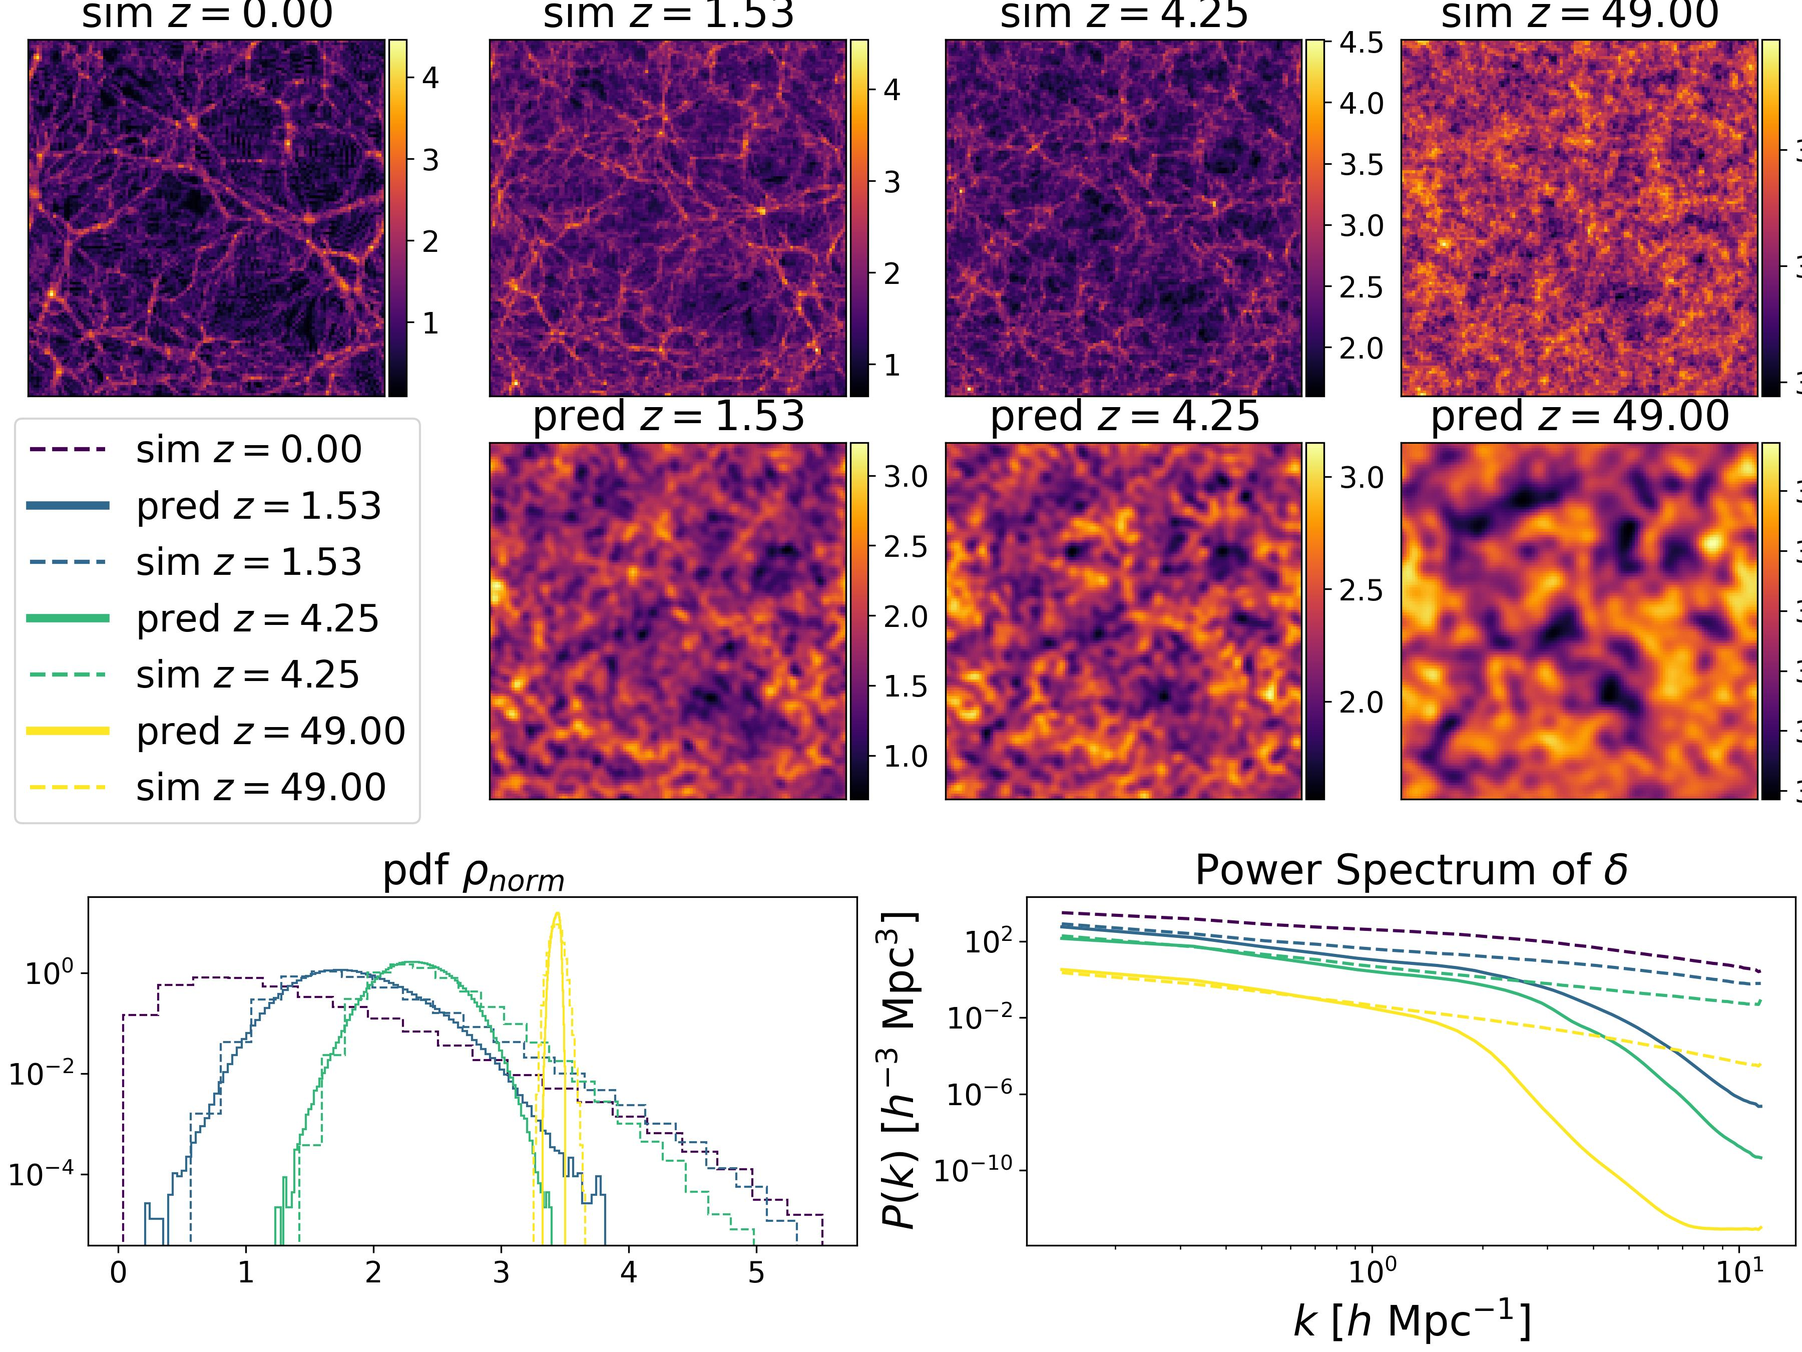
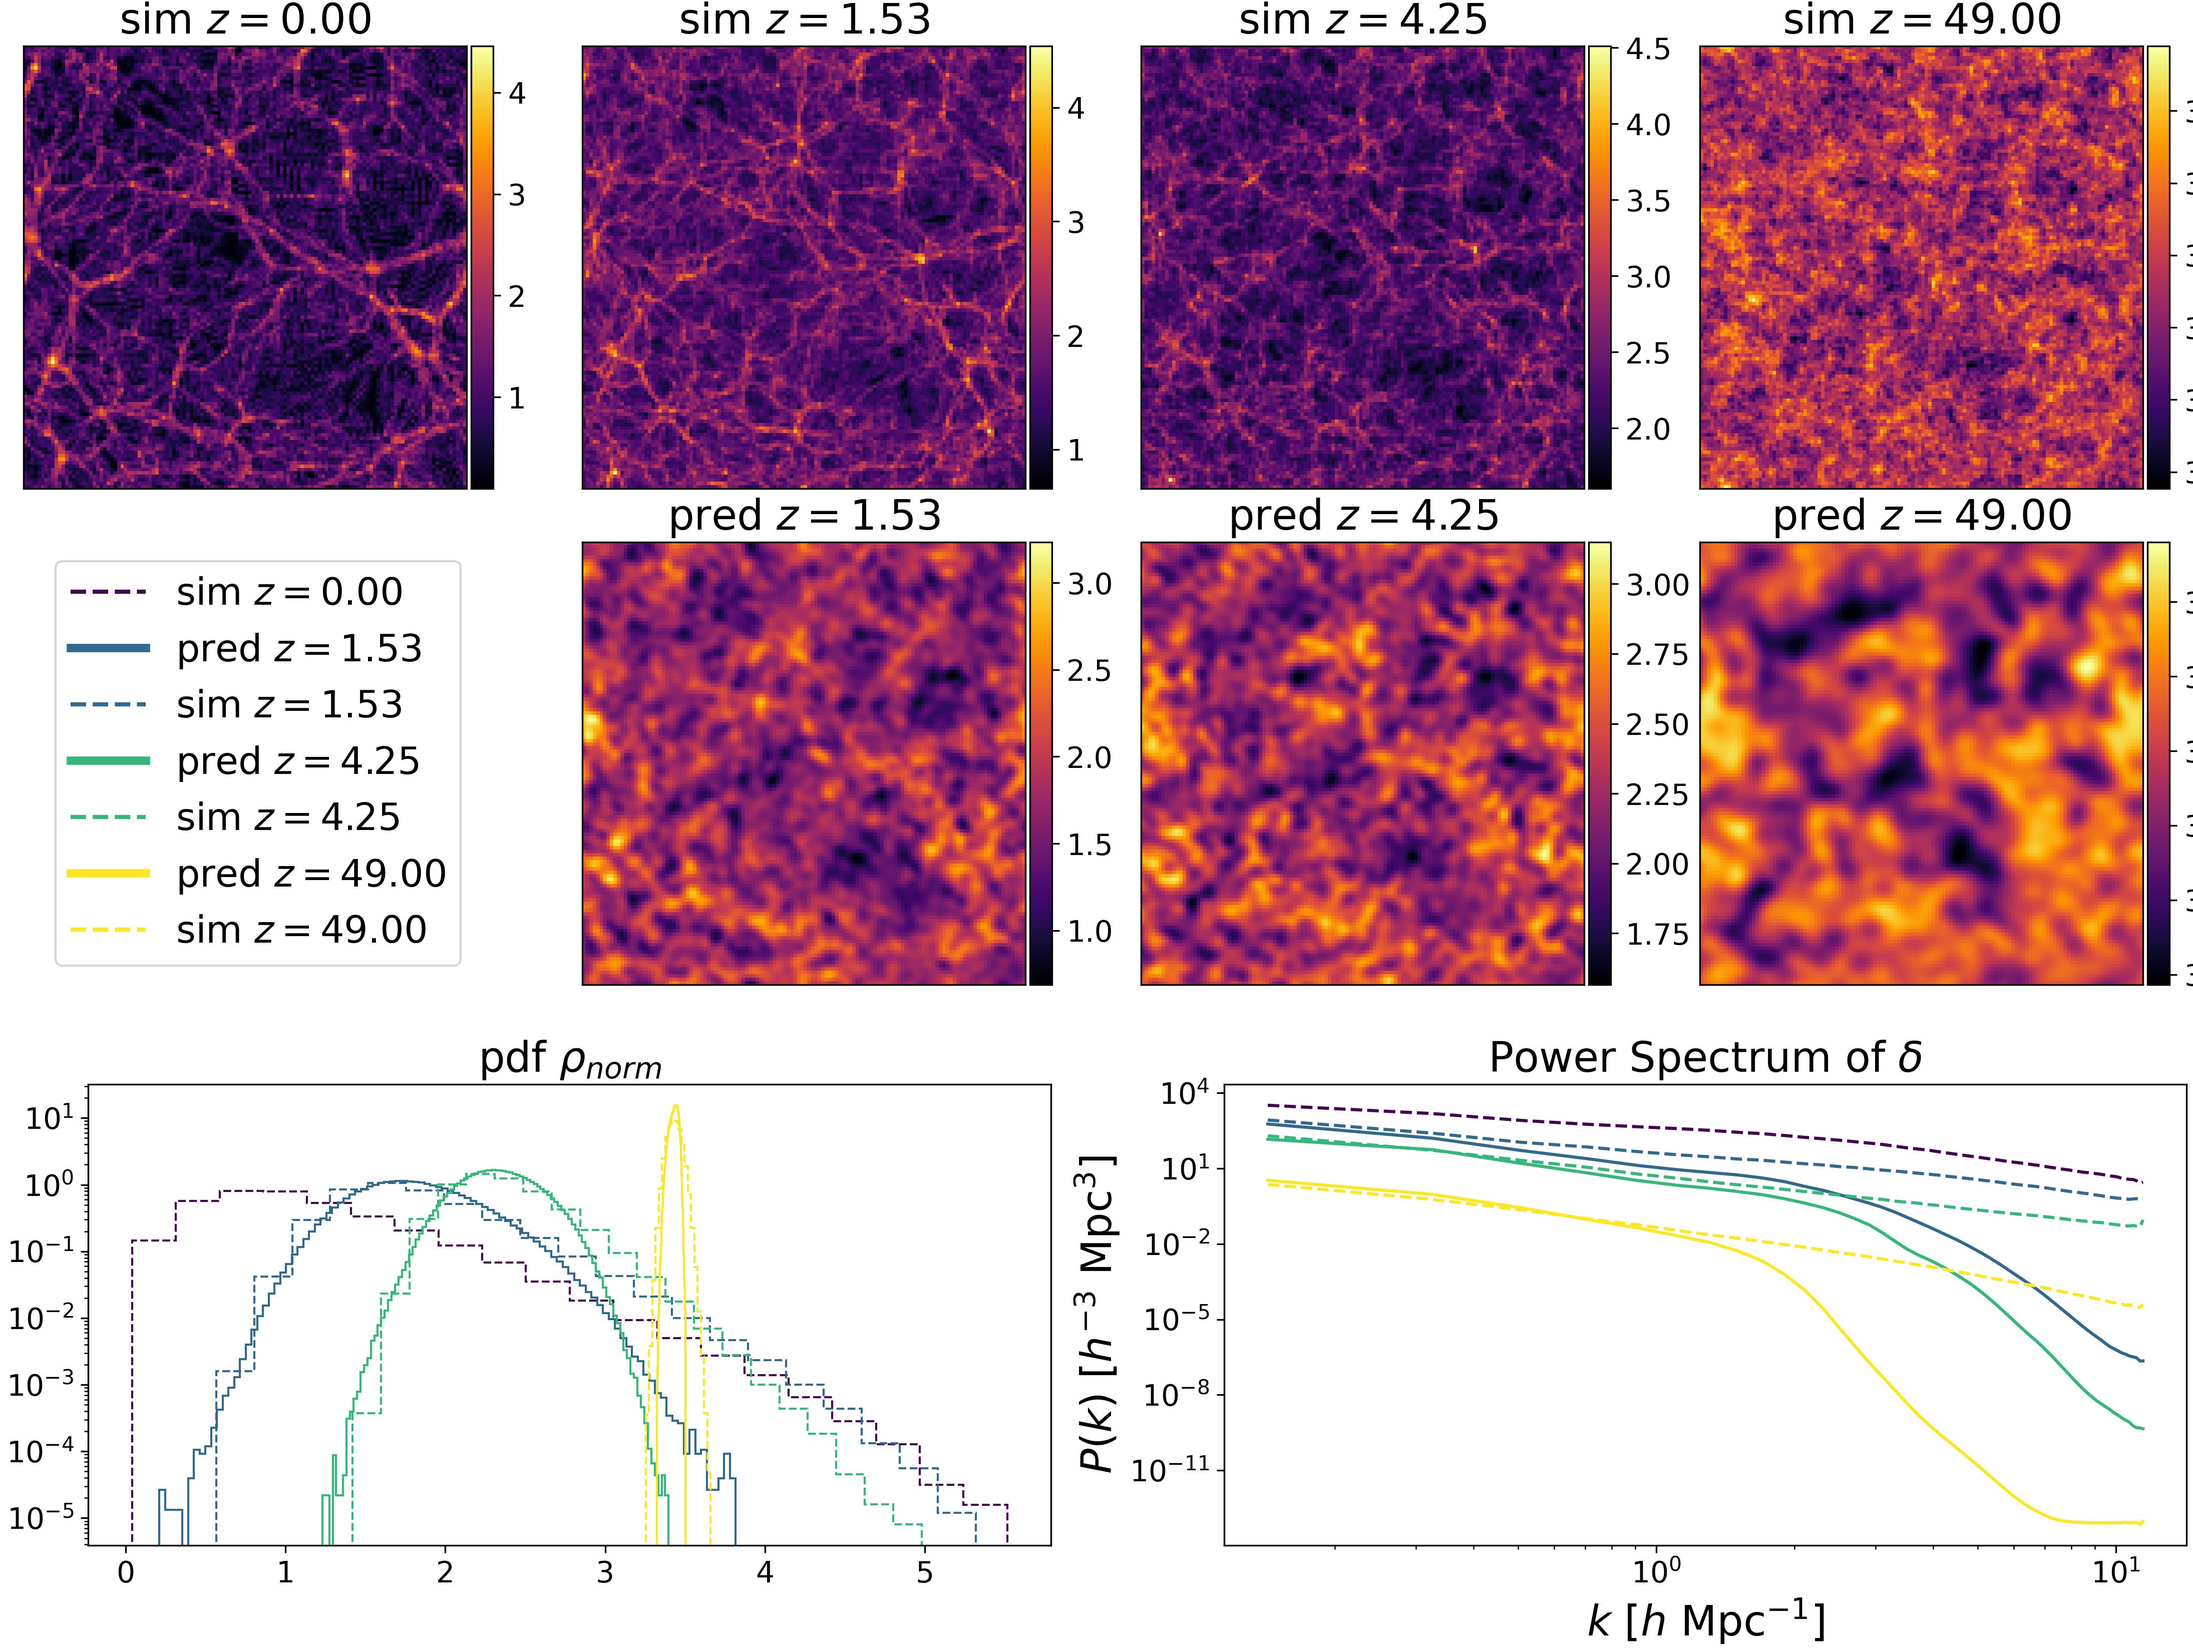
seq plot layouts

diff --git a/src/plot_sequential.py b/src/plot_sequential.py
@@ -38,7 +38,7 @@ def plot(
         'grid.linestyle': '--',            # Grid line style
         'grid.color': 'gray',              # Grid line color
         'text.usetex': False,              # Use TeX for text (set True if TeX is available)
-        'figure.figsize': [8, 6],          # Figure size
+        'figure.figsize': [9, 7],          # Figure size
         # 'axes.prop_cycle': plt.cycler('color', ['#0077BB', '#EE7733', '#33BBEE', '#EE3377'])
     })
     
@@ -57,7 +57,7 @@ def plot(
     
     fig = plt.figure(
         layout='constrained', 
-        figsize=(2+2.5*frames, 9 ),
+        figsize=(3+2.9*frames, 11 ),
         dpi=300)
     subfigs = fig.subfigures(2, 1, wspace=0.07, hspace=0.05, height_ratios=[1.6, 1])
 
